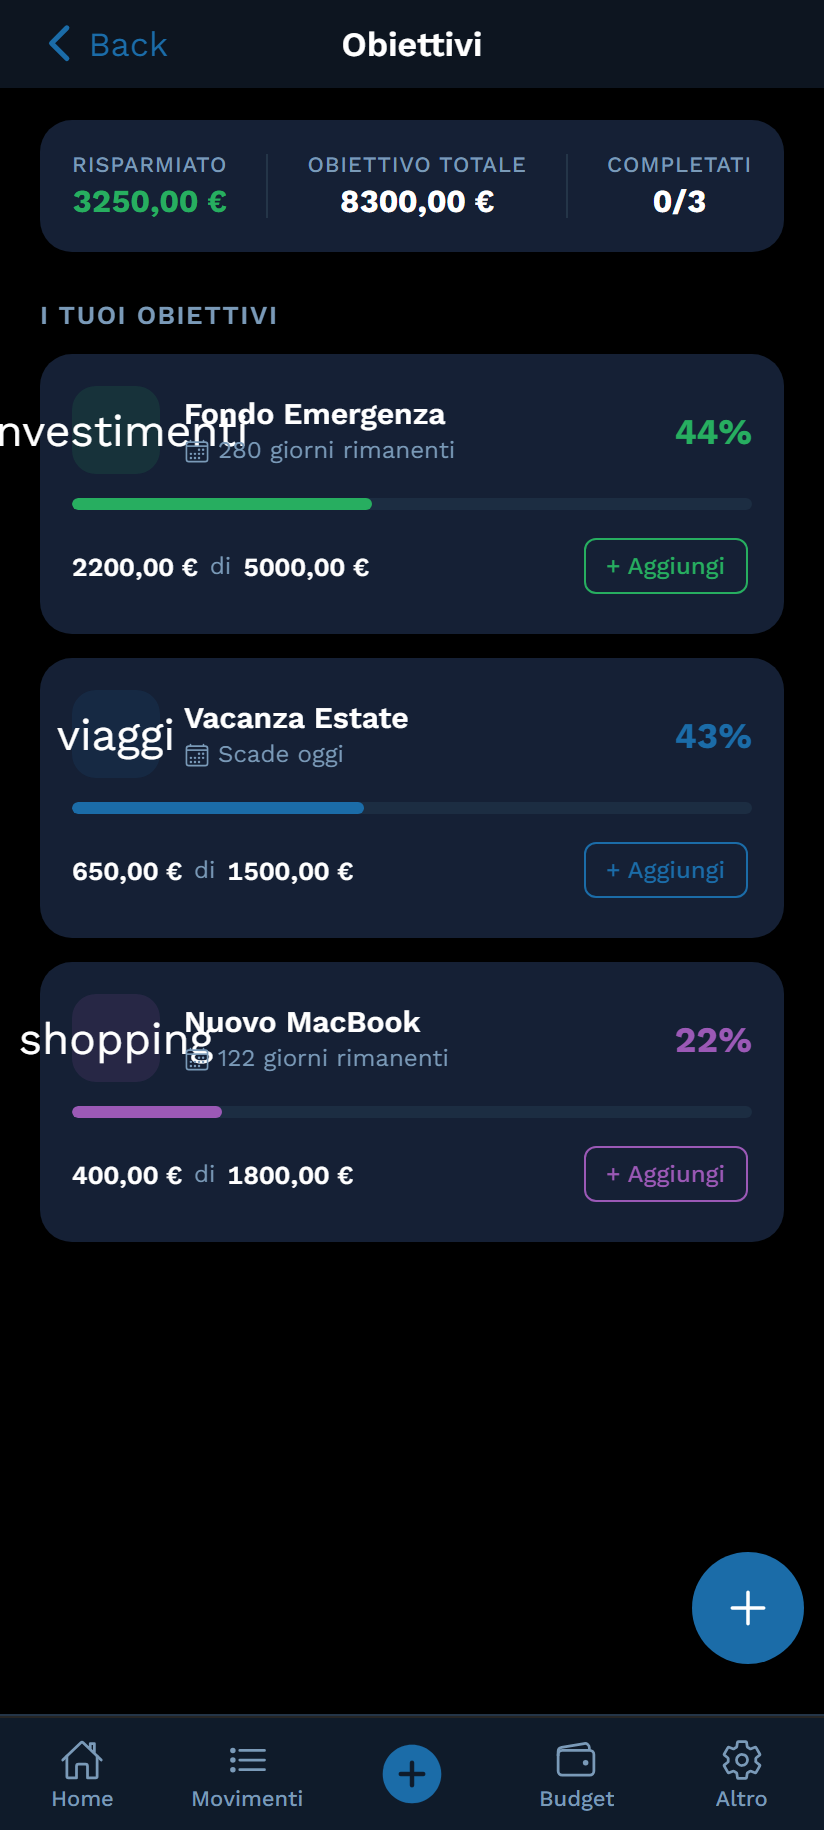
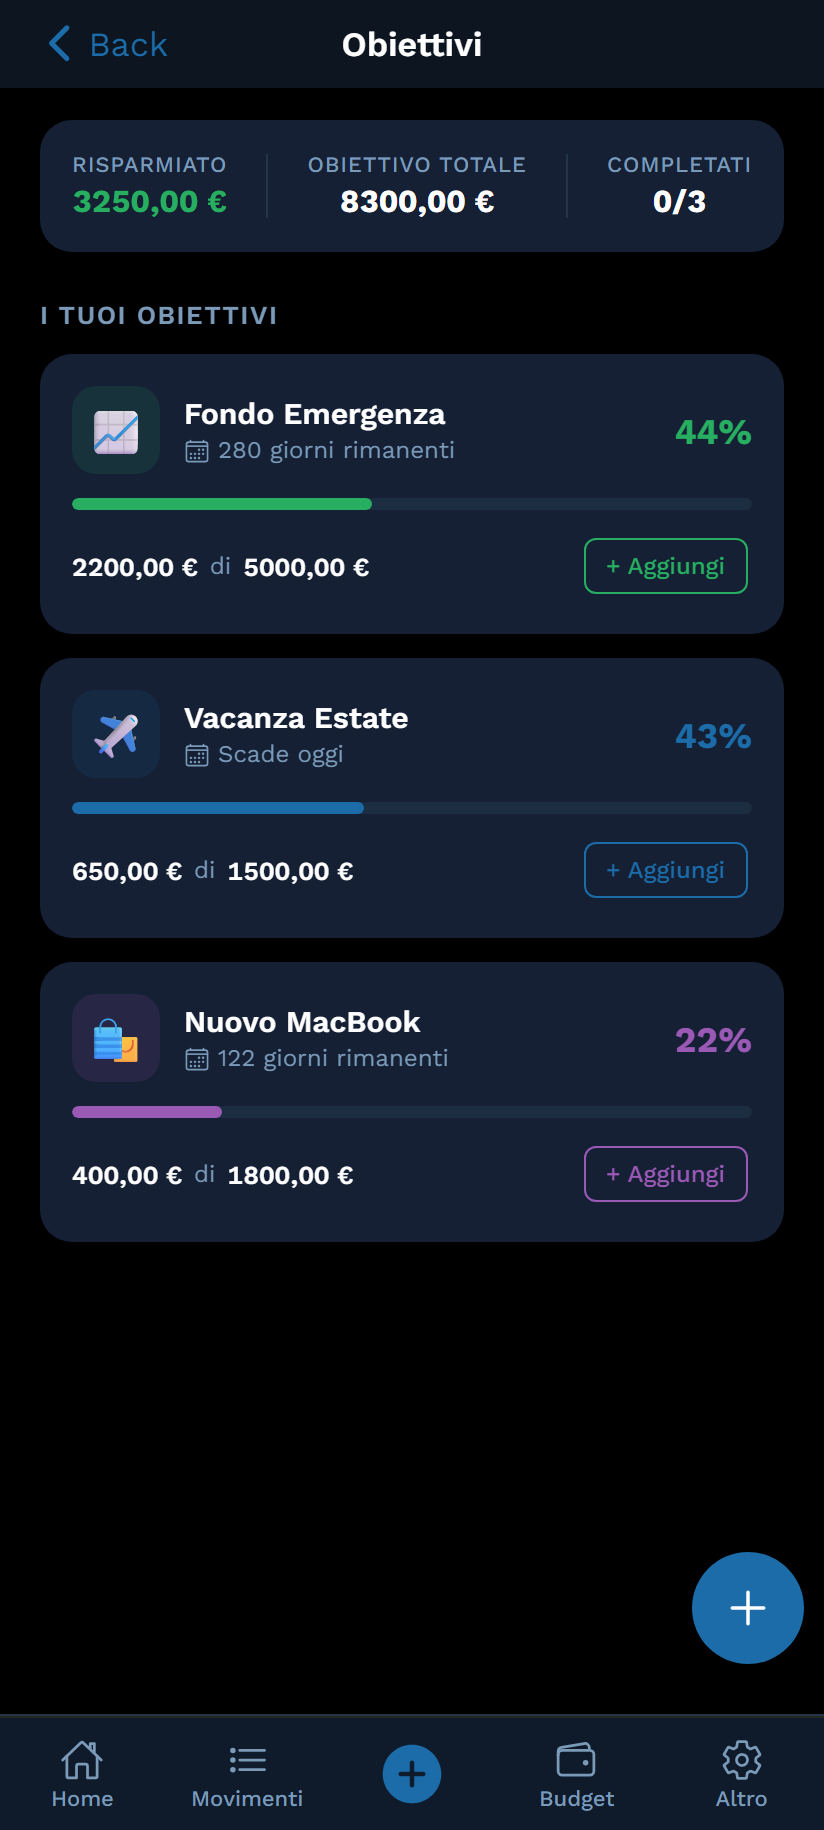
fix: corregge bug visivi trovati in fase di verifica screenshot
- Card obiettivo mostrava l'id testuale della categoria invece dell'emoji (goals.page)
- Rimuove le doppie frecce chevron nelle voci cliccabili di Impostazioni e Categorie
- Aggiorna screenshot store con le correzioni

Changed region(s): [[0.0, 0.218, 0.3034, 0.2492], [0.0303, 0.5607, 0.2731, 0.5918], [0.091, 0.3738, 0.2124, 0.4361]]

diff --git a/src/app/pages/settings/settings.page.html b/src/app/pages/settings/settings.page.html
@@ -55,7 +55,7 @@
   <div class="settings-group animate-in">
     <p class="section-title">Categorie</p>
     <ion-list class="surface-card" lines="inset">
-      <ion-item button routerLink="/tabs/categories" lines="none">
+      <ion-item button detail="false" routerLink="/tabs/categories" lines="none">
         <ion-icon name="pricetags-outline" slot="start" color="primary"></ion-icon>
         <ion-label>
           <h3>Gestisci categorie</h3>
@@ -70,7 +70,7 @@
   <div class="settings-group animate-in">
     <p class="section-title">Backup e dati</p>
     <ion-list class="surface-card" lines="inset">
-      <ion-item button (click)="exportBackup()">
+      <ion-item button detail="false" (click)="exportBackup()">
         <ion-icon name="cloud-download-outline" slot="start" color="primary"></ion-icon>
         <ion-label>
           <h3>Esporta backup completo</h3>
@@ -78,7 +78,7 @@
         </ion-label>
         <ion-icon name="chevron-forward-outline" slot="end" color="medium"></ion-icon>
       </ion-item>
-      <ion-item button [disabled]="isImporting" (click)="backupFileInput.click()">
+      <ion-item button detail="false" [disabled]="isImporting" (click)="backupFileInput.click()">
         <ion-icon name="cloud-upload-outline" slot="start" color="primary"></ion-icon>
         <ion-label>
           <h3>Ripristina da backup</h3>
@@ -87,7 +87,7 @@
         <ion-spinner *ngIf="isImporting" slot="end" name="crescent"></ion-spinner>
         <ion-icon *ngIf="!isImporting" name="chevron-forward-outline" slot="end" color="medium"></ion-icon>
       </ion-item>
-      <ion-item button (click)="exportCsv()" lines="none">
+      <ion-item button detail="false" (click)="exportCsv()" lines="none">
         <ion-icon name="download-outline" slot="start" color="primary"></ion-icon>
         <ion-label>
           <h3>Esporta CSV</h3>

diff --git a/src/app/pages/goals/goals.page.ts b/src/app/pages/goals/goals.page.ts
@@ -2,12 +2,14 @@ import { Component, OnInit } from '@angular/core';
 import { ModalController, AlertController } from '@ionic/angular';
 import { StorageService } from '../../services/storage.service';
 import { AnalyticsService } from '../../services/analytics.service';
+import { CategoryService } from '../../services/category.service';
 import { Goal } from '../../models/goal.model';
 import { GoalFormComponent } from './goal-form/goal-form.component';
 
 export interface GoalWithMeta extends Goal {
   pct:     number;
   daysLeft: number | null;
+  emoji:   string;
 }
 
 @Component({
@@ -20,10 +22,11 @@ export class GoalsPage implements OnInit {
   goals: GoalWithMeta[] = [];
 
   constructor(
-    private storage:   StorageService,
-    private analytics: AnalyticsService,
-    private modal:     ModalController,
-    private alert:     AlertController,
+    private storage:     StorageService,
+    private analytics:   AnalyticsService,
+    private categorySvc: CategoryService,
+    private modal:       ModalController,
+    private alert:       AlertController,
   ) {}
 
   ngOnInit(): void {
@@ -39,7 +42,8 @@ export class GoalsPage implements OnInit {
         const diff = new Date(g.deadline).getTime() - now.getTime();
         daysLeft   = Math.max(Math.ceil(diff / 86_400_000), 0);
       }
-      return { ...g, pct, daysLeft };
+      const emoji = this.categorySvc.getCategoryById(g.category)?.emoji ?? '🎯';
+      return { ...g, pct, daysLeft, emoji };
     });
   }
 

diff --git a/src/app/pages/categories/categories.page.html b/src/app/pages/categories/categories.page.html
@@ -11,7 +11,7 @@
   <div class="settings-group animate-in">
     <p class="section-title">Uscite</p>
     <ion-list class="surface-card" lines="inset">
-      <ion-item *ngFor="let cat of expenseCategories" [button]="cat.isCustom" (click)="editCategory(cat)">
+      <ion-item *ngFor="let cat of expenseCategories" [button]="cat.isCustom" detail="false" (click)="editCategory(cat)">
         <span slot="start" class="cat-emoji" [style.background]="cat.color + '22'">{{ cat.emoji }}</span>
         <ion-label>{{ cat.name }}</ion-label>
         <ion-note *ngIf="!cat.isCustom" slot="end">Predefinita</ion-note>
@@ -23,7 +23,7 @@
   <div class="settings-group animate-in">
     <p class="section-title">Entrate</p>
     <ion-list class="surface-card" lines="inset">
-      <ion-item *ngFor="let cat of incomeCategories" [button]="cat.isCustom" (click)="editCategory(cat)">
+      <ion-item *ngFor="let cat of incomeCategories" [button]="cat.isCustom" detail="false" (click)="editCategory(cat)">
         <span slot="start" class="cat-emoji" [style.background]="cat.color + '22'">{{ cat.emoji }}</span>
         <ion-label>{{ cat.name }}</ion-label>
         <ion-note *ngIf="!cat.isCustom" slot="end">Predefinita</ion-note>

diff --git a/src/app/pages/goals/goals.page.html b/src/app/pages/goals/goals.page.html
@@ -35,7 +35,7 @@
     <div class="goal-card surface-card" *ngFor="let g of goals" (click)="openForm(g)">
       <div class="goal-header">
         <div class="goal-icon" [style.background]="g.color + '22'">
-          <span>{{ g.category }}</span>
+          <span>{{ g.emoji }}</span>
         </div>
         <div class="goal-info">
           <p class="goal-name">{{ g.name }}</p>

diff --git a/src/app/pages/goals/goals.page.scss b/src/app/pages/goals/goals.page.scss
@@ -50,6 +50,7 @@
   justify-content: center;
   font-size: 22px;
   flex-shrink: 0;
+  overflow: hidden;
 }
 .goal-info { flex: 1; min-width: 0; }
 .goal-name {
